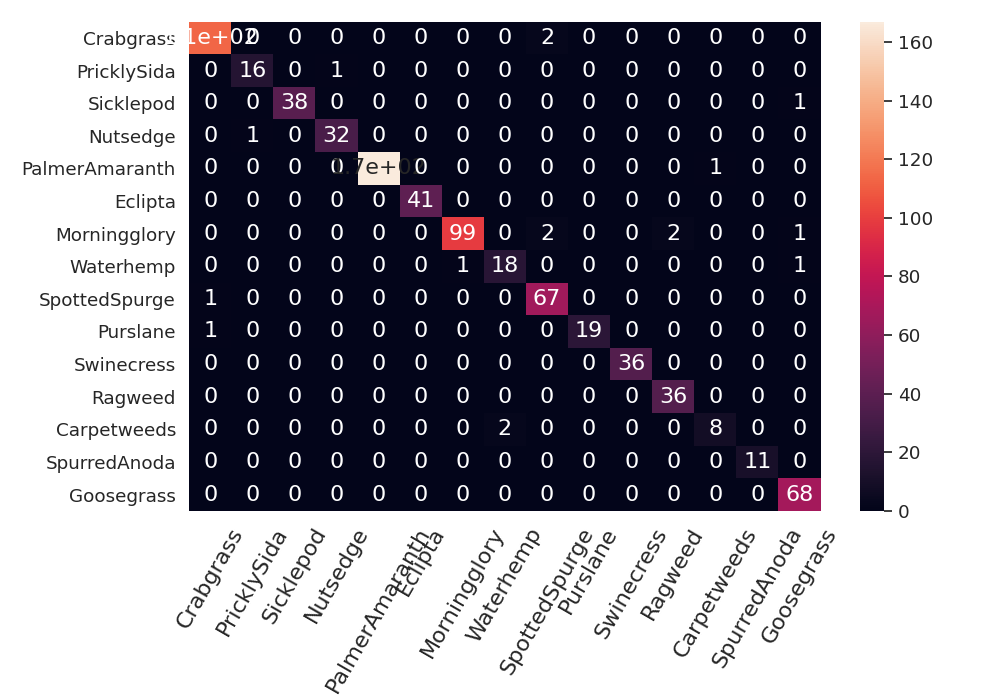
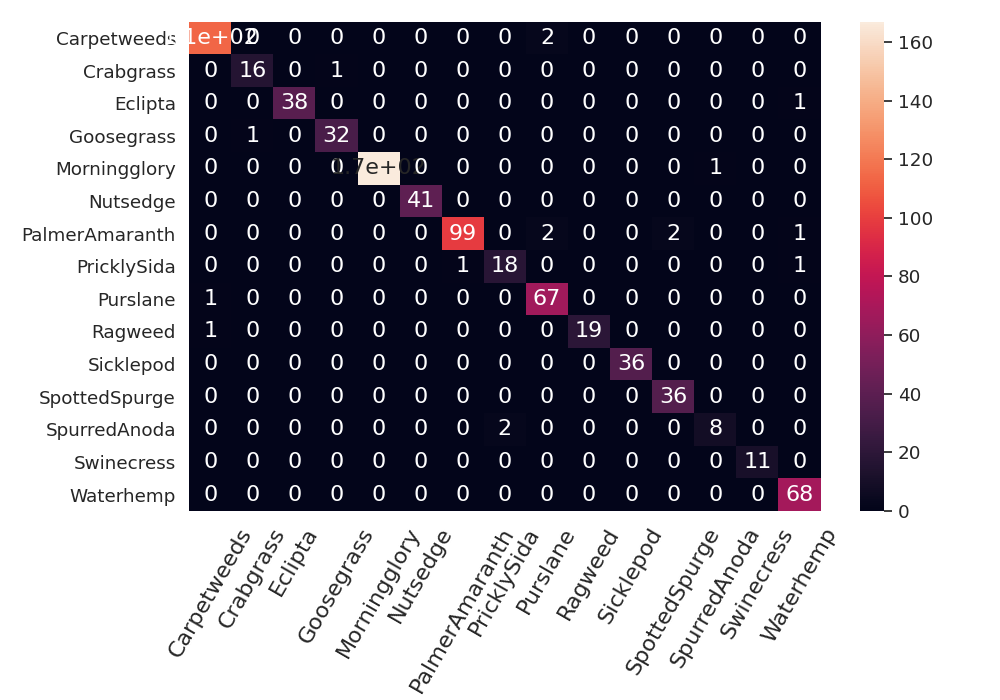
update results

diff --git a/eval.py b/eval.py
@@ -48,7 +48,6 @@ if not os.path.isfile('eval_performance.csv'):
         writer = csv.DictWriter(csv_file, fieldnames=fieldnames)
         writer.writeheader()
 
-
 # Load the model for evaluation
 model = torch.load(EVAL_MODEL)
 model.eval()
@@ -75,9 +74,9 @@ num_classes = len(eval_dataset.classes)
 dsize = len(eval_dataset)
 
 # Class label names
-class_names = ['Crabgrass', 'PricklySida', 'Sicklepod', 'Nutsedge', 'PalmerAmaranth', 'Eclipta',
-               'Morningglory', 'Waterhemp', 'SpottedSpurge', 'Purslane', 'Swinecress', 'Ragweed',
-               'Carpetweeds', 'SpurredAnoda', 'Goosegrass']
+class_names = ['Carpetweeds', 'Crabgrass', 'Eclipta', 'Goosegrass', 'Morningglory', 'Nutsedge',
+               'PalmerAmaranth', 'PricklySida', 'Purslane', 'Ragweed', 'Sicklepod',
+                'SpottedSpurge', 'SpurredAnoda', 'Swinecress', 'Waterhemp']
 
 # Initialize the prediction and label lists
 predlist = torch.zeros(0, dtype=torch.long, device='cpu')
@@ -107,7 +106,6 @@ conf_mat = confusion_matrix(lbllist.numpy(), predlist.numpy())
 print('Confusion Matrix')
 print('-' * 16)
 print(conf_mat, '\n')
-
 
 plt.figure(figsize=(10, 7))
 df_cm = pd.DataFrame(conf_mat, index=class_names,

diff --git a/test.py b/test.py
@@ -6,11 +6,6 @@ import time
 import argparse
 import os, csv
 
-# for reproducing
-torch.manual_seed(66)
-torch.backends.cudnn.benchmark = False
-torch.backends.cudnn.deterministic = True
-
 
 def parse_args():
     parser = argparse.ArgumentParser(description='Test CottonWeed Classifier')
@@ -22,12 +17,21 @@ def parse_args():
                         help="choose a deep learning model")
     parser.add_argument('--IMDIR', type=str, required=False, default='./test',
                         help="dir for the testing image")
+    parser.add_argument('--IMDIR', type=str, required=False, default='./test',
+                        help="dir for the testing image")
     parser.add_argument('--img_size', type=int, required=False, default=512, help="Image Size")
     args = parser.parse_args()
     return args
 
 
 args = parse_args()
+
+
+# for reproducing
+torch.manual_seed(args.seeds)
+torch.backends.cudnn.benchmark = False
+torch.backends.cudnn.deterministic = True
+
 IMDIR = args.IMDIR
 model_name = args.model_name
 img_size = args.img_size
